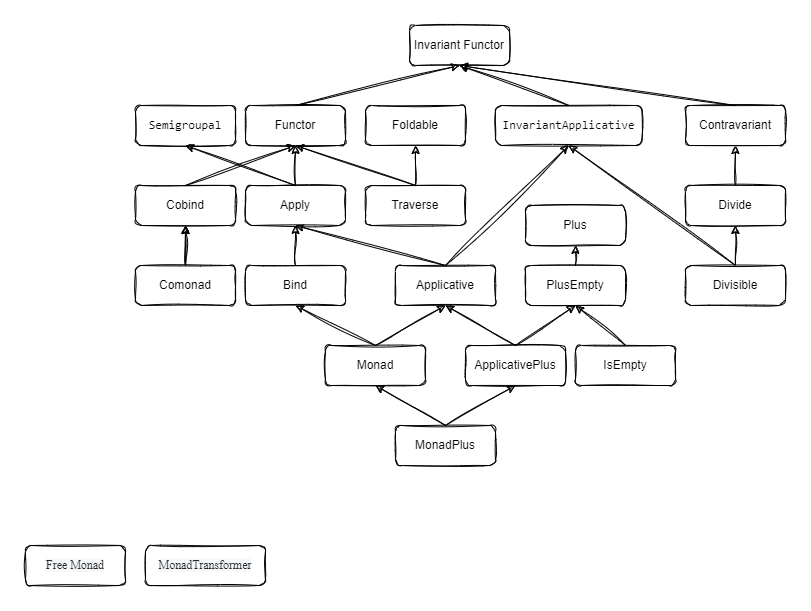
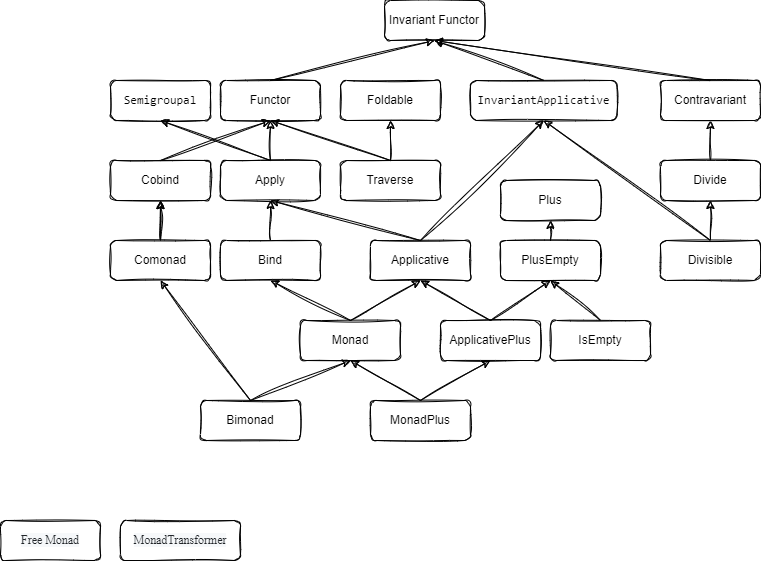
Add "Affixes" article

diff --git a/docs/typeclass/monad/bimonad.md b/docs/typeclass/monad/bimonad.md
@@ -1,0 +1,63 @@
+# Bi-Monad
+
+`Bimonad` напрямую расширяет [Monad](monad.md) и [Comonad](co-monads.md) без введения новых методов. 
+`Bimonad` отличается от других классов типов **Bi**, 
+таких как [Bifunctor](../bifunctor/bifunctor.md), [Bifoldable](../bifunctor/bifoldable.md) 
+или [Bitraverse](../bifunctor/bitraverse.md), где префикс описывает `F[_, _]`.
+`Bimonad` — это `F[_]`, а префикс **Bi** здесь имеет другое значение: это и монада, и комонада. 
+Имейте в виду, что бимонада имеет свои собственные дополнительные законы, 
+поэтому то, что является одновременно монадическим и комонадным, необязательно может быть законной бимонадой.
+
+## Описание
+
+```scala
+trait Bimonad[F[_]] extends Monad[F], CoMonad[F]
+```
+
+## Примеры
+
+### Непустой список
+
+```scala
+given Bimonad[NonEmptyList] with
+  def unit[A](a: => A): NonEmptyList[A] = NonEmptyList(a, List.empty)
+
+  def coUnit[A](fa: NonEmptyList[A]): A = fa.head
+
+  extension [A](fa: NonEmptyList[A])
+    def flatMap[B](f: A => NonEmptyList[B]): NonEmptyList[B] =
+      fa match
+        case NonEmptyList(head, Nil) => f(head)
+        case NonEmptyList(head, h :: tail) =>
+          f(head) ++ NonEmptyList(h, tail).flatMap(f)
+
+    def cobind[B](f: NonEmptyList[A] => B): NonEmptyList[B] =
+      NonEmptyList(f(fa), Nil)
+```
+
+
+## Реализация
+
+### Реализация в Cats
+
+```scala
+import cats.*
+import cats.data.*
+import cats.syntax.all.*
+
+def make[T[_]: Bimonad](config: T[String]): String = 
+  config
+    .flatMap(c => Bimonad[T].pure(c + " with option A"))
+    .flatMap(c => Bimonad[T].pure(c + " with option B"))
+    .flatMap(c => Bimonad[T].pure(c + " with option C"))
+    .extract
+
+make(NonEmptyList.one("config"))
+// res0: String = "config with option A with option B with option C"
+```
+
+---
+
+**Ссылки:**
+
+- [Cats](https://typelevel.org/cats/typeclasses/bimonad.html)

diff --git a/docs/extra/one_star.md b/docs/extra/one_star.md
@@ -58,10 +58,11 @@
 
 ### Статьи
 
-| Название                                                                                                                          | Версия  | Язык | Дата | Комментарий |
-|-----------------------------------------------------------------------------------------------------------------------------------|:-------:|:----:|------|-------------|
-| [Exploring Scala CLI — the new scala runner](https://medium.com/virtuslab/exploring-scala-cli-the-new-scala-runner-4b958245c2e0)  | Scala 3 |  En  | 2023 |             |
-| [On Scala, Functional Programming and Type-Classes](https://alexn.org/blog/2012/11/02/scala-functional-programming-type-classes)  | Scala 2 |  En  | 2012 |             |
+| Название                                                                                                                         | Версия  | Язык | Дата | Комментарий                 |
+|----------------------------------------------------------------------------------------------------------------------------------|:-------:|:----:|------|-----------------------------|
+| [Build your vocabulary with Scala affixes](https://rossabaker.com/blog/scala-affixes)                                            | Scala 3 |  En  | 2023 | Префиксы и суффиксы в Scala |
+| [Exploring Scala CLI — the new scala runner](https://medium.com/virtuslab/exploring-scala-cli-the-new-scala-runner-4b958245c2e0) | Scala 3 |  En  | 2023 |                             |
+| [On Scala, Functional Programming and Type-Classes](https://alexn.org/blog/2012/11/02/scala-functional-programming-type-classes) | Scala 2 |  En  | 2012 |                             |
 
 --- 
 

diff --git a/docs/typeclass/monad/applicative.md b/docs/typeclass/monad/applicative.md
@@ -30,11 +30,14 @@
 ## Описание 
 
 ```scala
-trait Applicative[F[_]] extends Apply[F] with InvariantApplicative[F] :
+trait Applicative[F[_]] extends Apply[F], InvariantApplicative[F]:
   def unit[A](a: => A): F[A]
   override def xunit0[A](a: => A): F[A] = unit(a)
 
   def apply[A, B](fab: F[A => B])(fa: F[A]): F[B]
+
+  override def product[A, B](fa: F[A], fb: F[B]): F[(A, B)] =
+    fa.map2(fb)((a, b) => (a, b))
 
   extension [A](fa: F[A])
     def map[B](f: A => B): F[B] =
@@ -42,9 +45,6 @@ trait Applicative[F[_]] extends Apply[F] with InvariantApplicative[F] :
 
     def map2[B, C](fb: F[B])(f: (A, B) => C): F[C] =
       apply(apply(unit(f.curried))(fa))(fb)
-
-    def product[B](fb: F[B]): F[(A, B)] =
-      fa.map2(fb)((a, b) => (a, b))  
 ```
 
 ## Примеры
@@ -203,8 +203,18 @@ given ioApplicative: Applicative[IO] with
   override def apply[A, B](fab: IO[A => B])(fa: IO[A]): IO[B] = IO(() => fab.run()(fa.run()))
 ```
 
+## Реализация
 
-## Реализация в ScalaZ
+### Реализация в Cats
+
+```scala
+import cats.*, cats.data.*, cats.syntax.all.*
+
+Applicative[List].pure(1)    // List(1)
+Applicative[Option].pure(1)  // Some(1)
+```
+
+### Реализация в ScalaZ
 
 ```scala
 import scalaz.*
@@ -215,16 +225,6 @@ import Scalaz.*
 1.point[List]                                         // List(1)
 1.η[List]                                             // List(1)
 ```
-
-## Реализация в Cats
-
-```scala
-import cats.*, cats.data.*, cats.syntax.all.*
-
-Applicative[List].pure(1)    // List(1)
-Applicative[Option].pure(1)  // Some(1)
-```
-
 
 ---
 

diff --git a/docs/typeclass/affixes.md b/docs/typeclass/affixes.md
@@ -1,0 +1,48 @@
+# Значение аффиксов Scala
+
+[Перевод статьи "Build your vocabulary with Scala affixes", автор Ross A. Baker][Affixes]
+
+Ниже приводится объяснение некоторых префиксов и суффиксов в Scala.
+
+## Префиксы
+
+### bi-
+
+**bi** - значит "два". 
+Обычно префикс означает обобщение одного параметра типа до двух. 
+Это полезно, когда есть канал ошибок, например `Either`.
+
+[Functor](monad/functor.md) против [Bifunctor](bifunctor/bifunctor.md):
+
+```scala
+trait Functor[F[_]]:
+  def map[A, B](fa: F[A])(f: A => B): F[B]
+
+trait Bifunctor[F[_, _]]:
+  def bimap[A, B, C, D](fab: F[A, B])(f: A => C, g: B => D): F[C, D]
+```
+
+[Traverse](monad/traverse.md) против [Bitraverse](bifunctor/bitraverse.md).
+
+```scala
+trait Traverse[F[_]]:
+  def traverse[G[_]: Applicative, A, B](fa: F[A])(f: A => G[B]): G[F[B]]
+
+trait Bitraverse[F[_, _]]:
+  def bitraverse[G[_]: Applicative, A, B, C, D](  fab: F[A, B])(f: A => G[C], g: B => G[D]): G[F[C, D]]
+```
+
+Как ни странно, [Bimonad](monad/bimonad.md) не вводит второй параметр, 
+а скорее объединяет категорию и ее двойственность.
+
+```scala
+trait Bimonad[F[_]] extends Monad[F], Comonad[F]
+```
+
+---
+
+**Ссылки:**
+
+- [Build your vocabulary with Scala affixes][Affixes]
+
+[Affixes]: https://rossabaker.com/blog/scala-affixes
